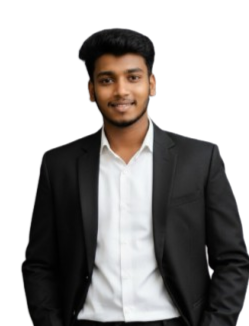
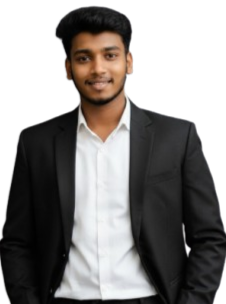
update hero section image

diff --git a/src/components/modules/Home/Hero.tsx b/src/components/modules/Home/Hero.tsx
@@ -9,7 +9,7 @@ const Hero = () => {
   return (
     <section
       id="home"
-      className="w-full  md:min-h-screen flex flex-col justify-center px-3 md:px-16 lg:px-24 py-16"
+      className="w-full  md:min-h-screen flex flex-col justify-center px-3 md:px-16 lg:px-24 md:py-16"
     >
       <div className="flex flex-col-reverse md:flex-row items-center gap-14 lg:gap-20">
         {/* Left Side Content */}
